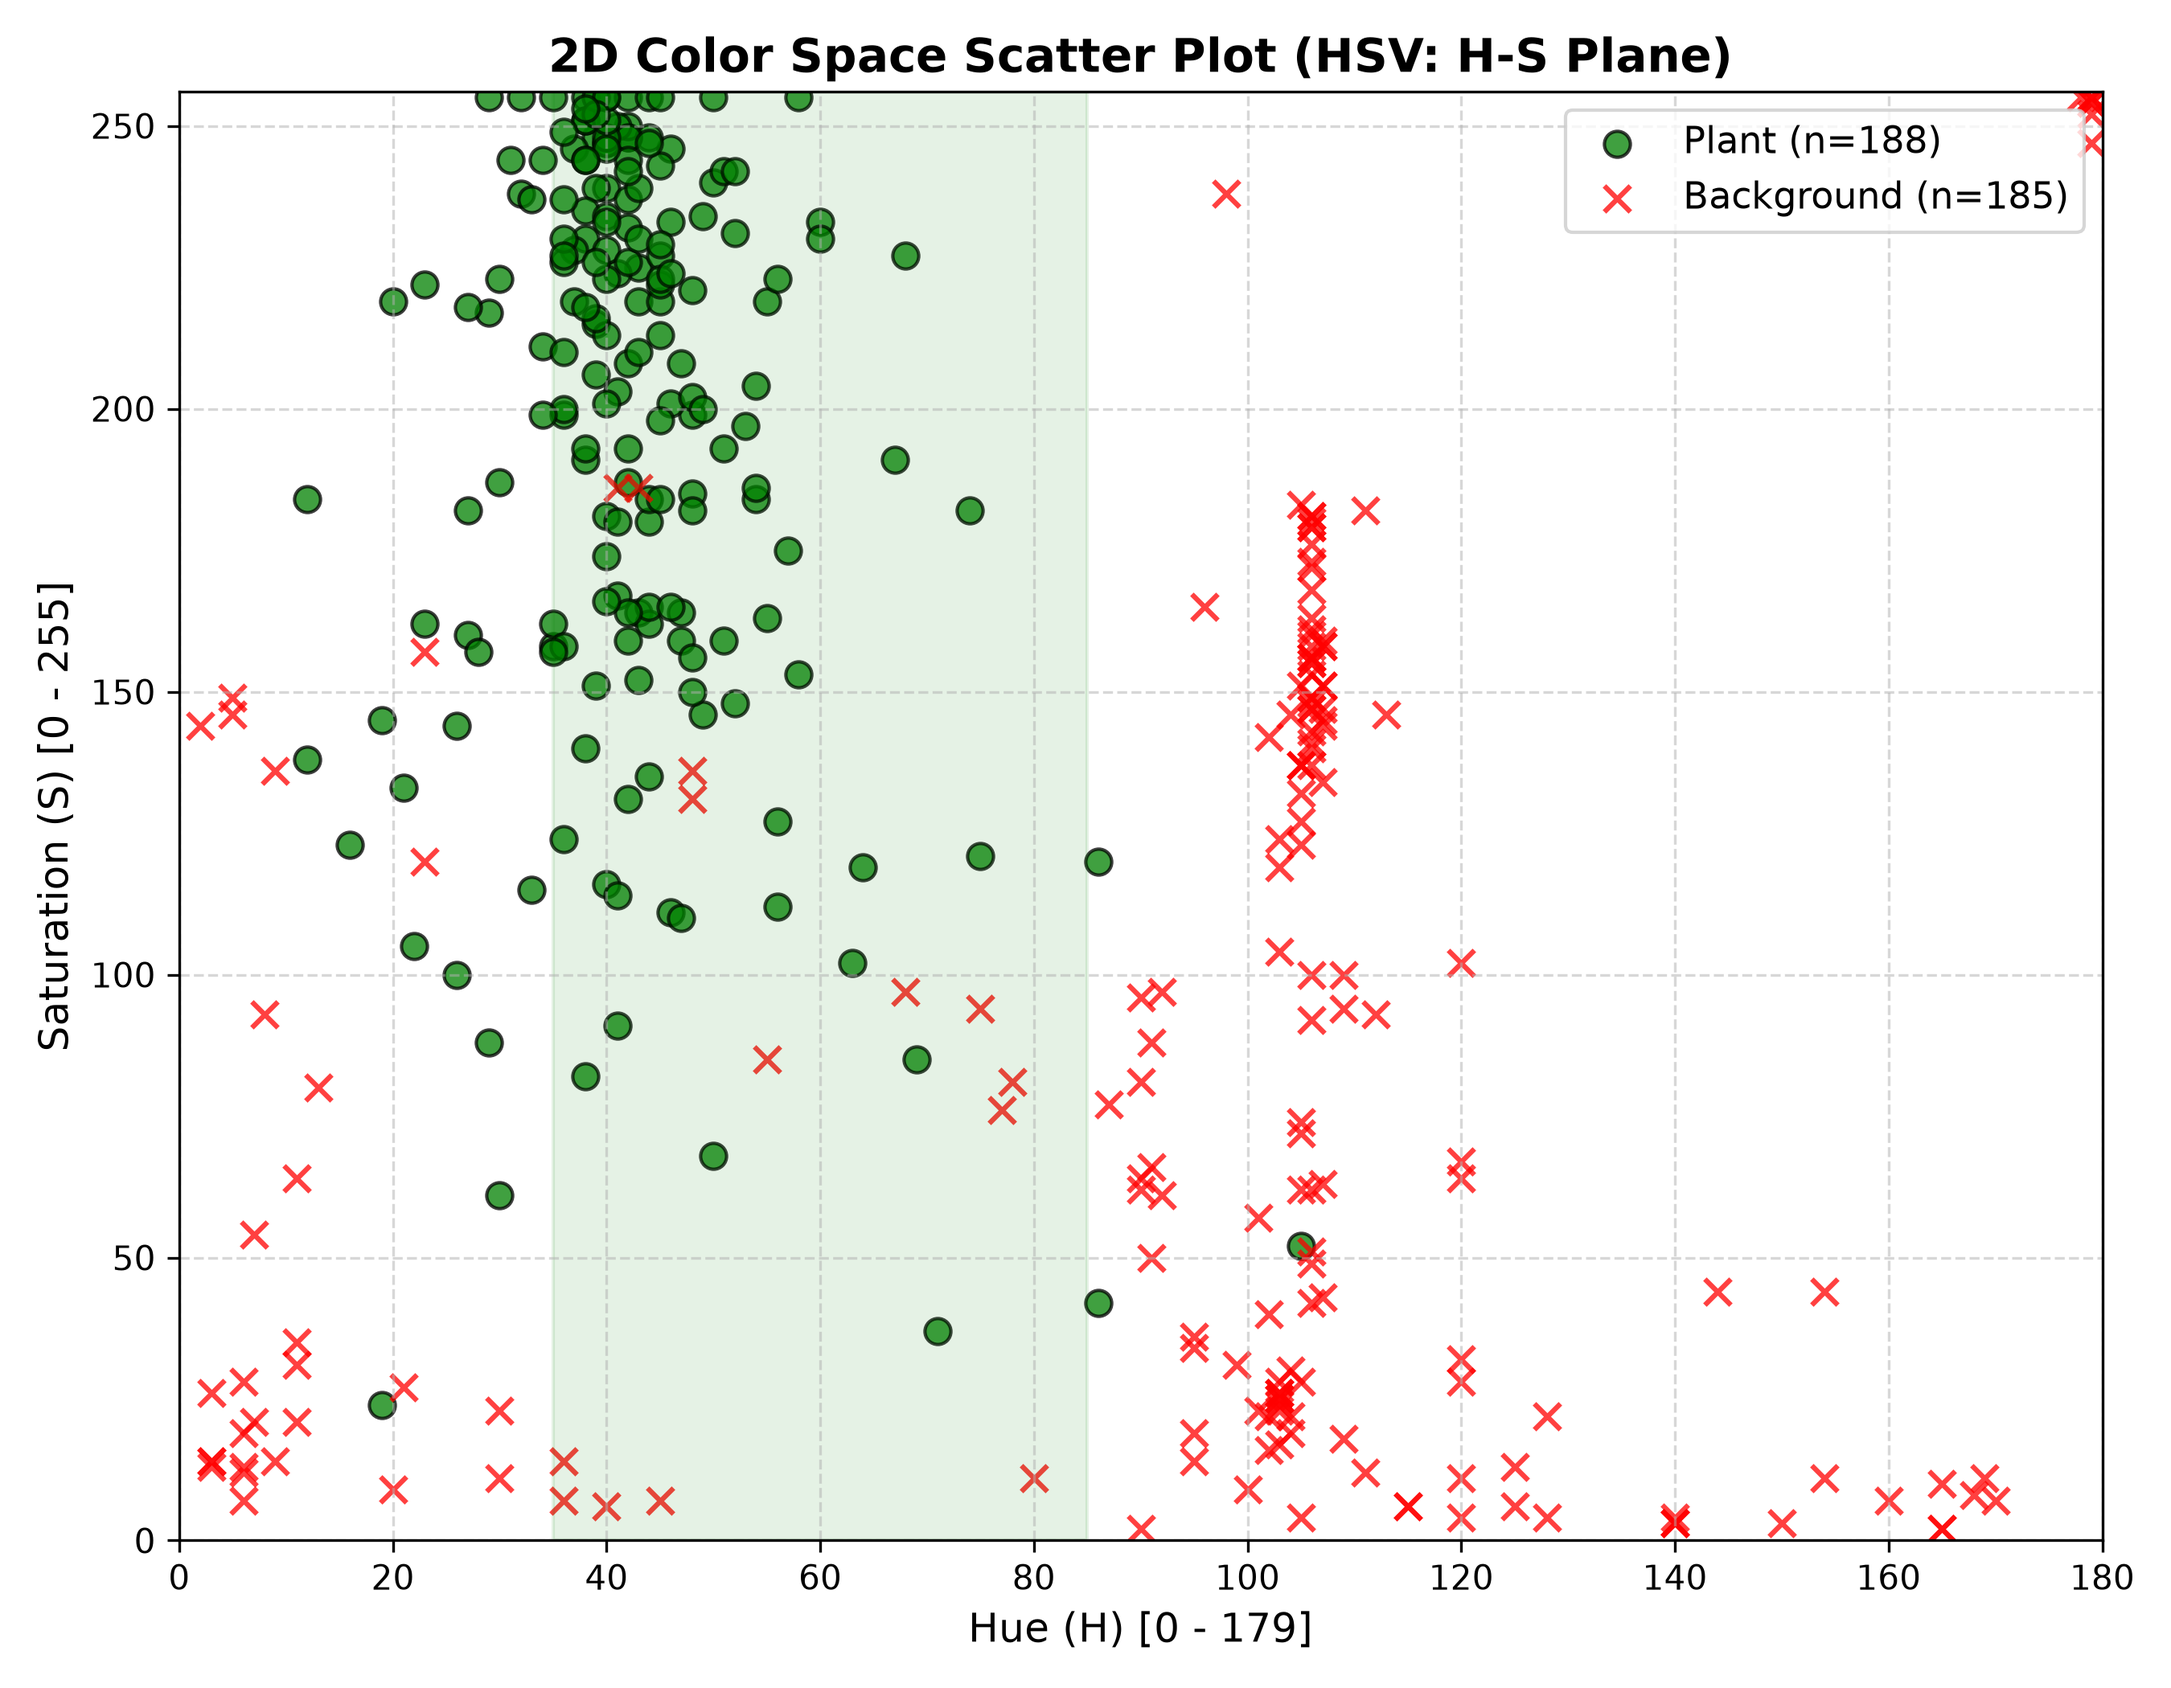
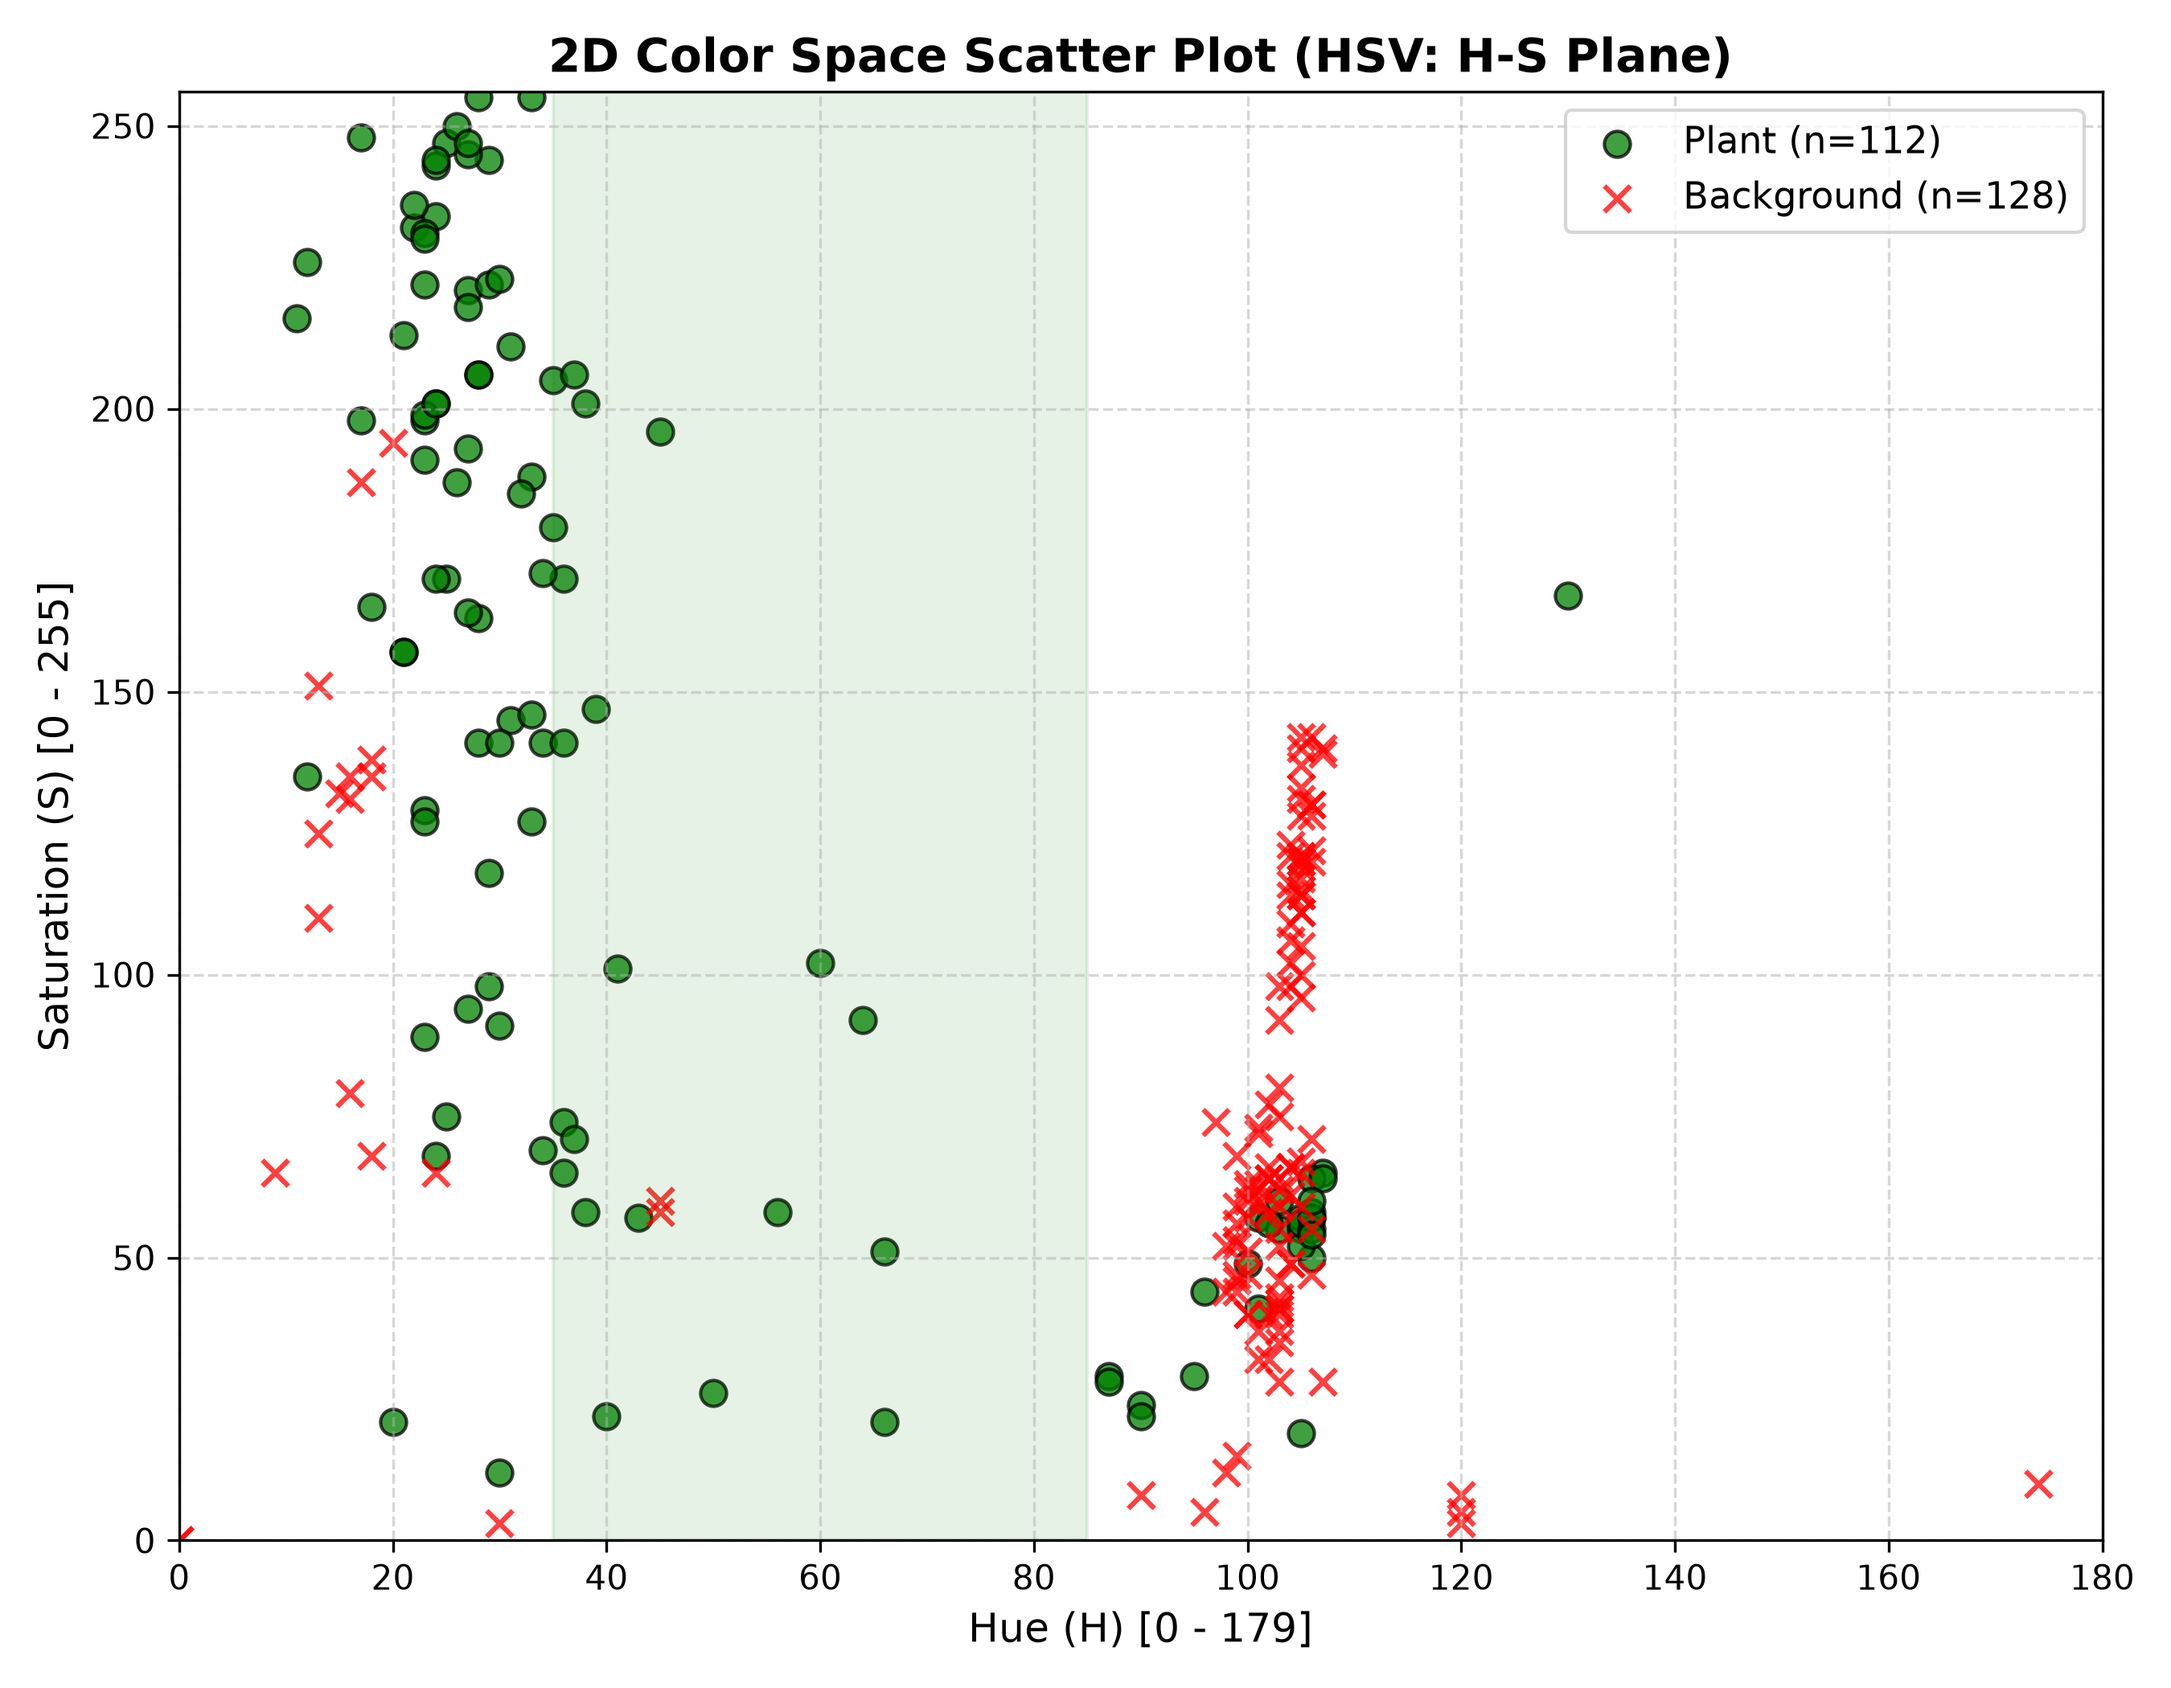
新增圖二csv與結果

diff --git a/gettingRGB.py b/gettingRGB.py
@@ -4,8 +4,8 @@ import numpy as np
 import os
 
 # ==================== 設定參數 ====================
-IMAGE_PATH = '.\\211365.jpg'  # 換成你想標記的圖片路徑
-OUTPUT_CSV = 'pixel_samples.csv'
+IMAGE_PATH = '.\\309972.jpg'  # 換成你想標記的圖片路徑
+OUTPUT_CSV = 'pixel_samples2.csv'
 # ==================================================
 
 # 儲存採樣數據: [R, G, B, Label, X, Y]

diff --git a/RGBtoHSV.py b/RGBtoHSV.py
@@ -4,7 +4,7 @@ import cv2
 import matplotlib.pyplot as plt
 
 # 1. 讀取 CSV 資料
-csv_file = 'pixel_samples.csv'
+csv_file = 'pixel_samples2.csv'
 df = pd.read_csv(csv_file)
 
 # 2. 將 RGB 轉為 OpenCV 的 HSV 格式
